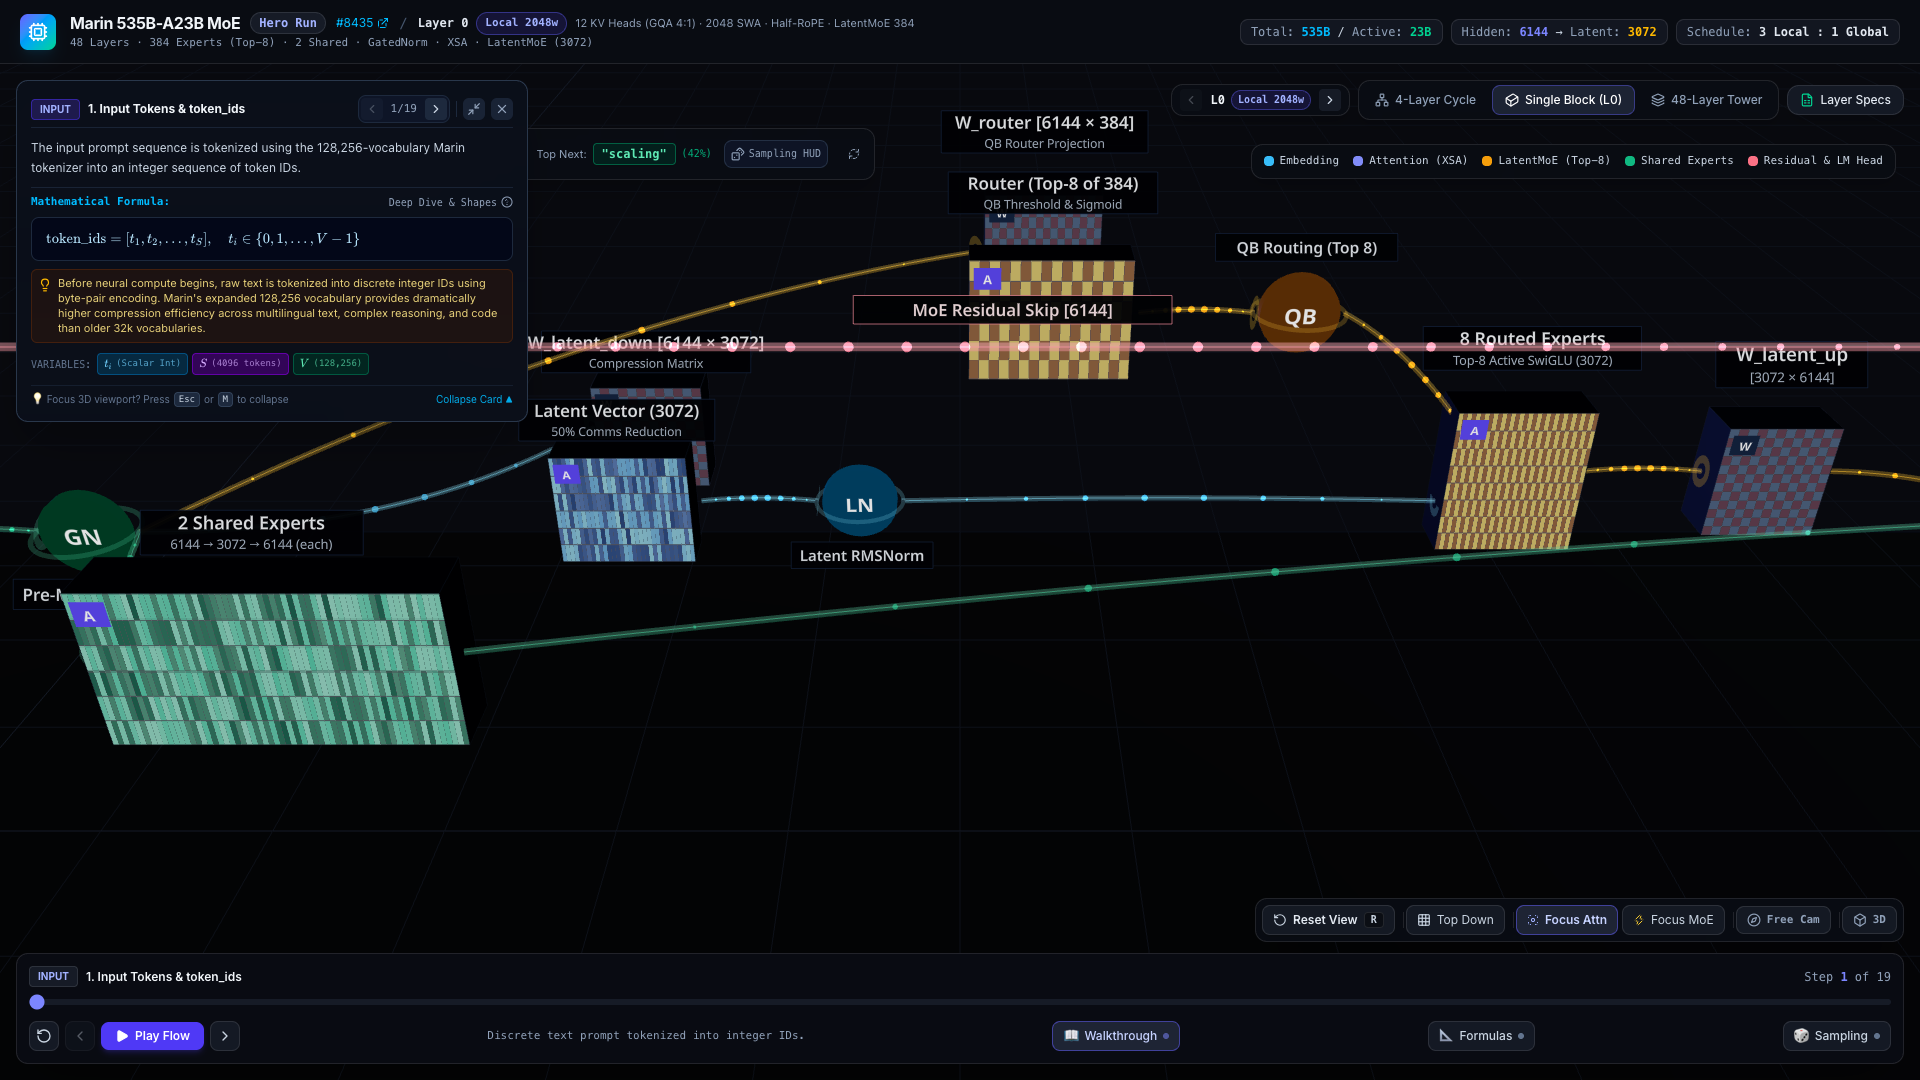
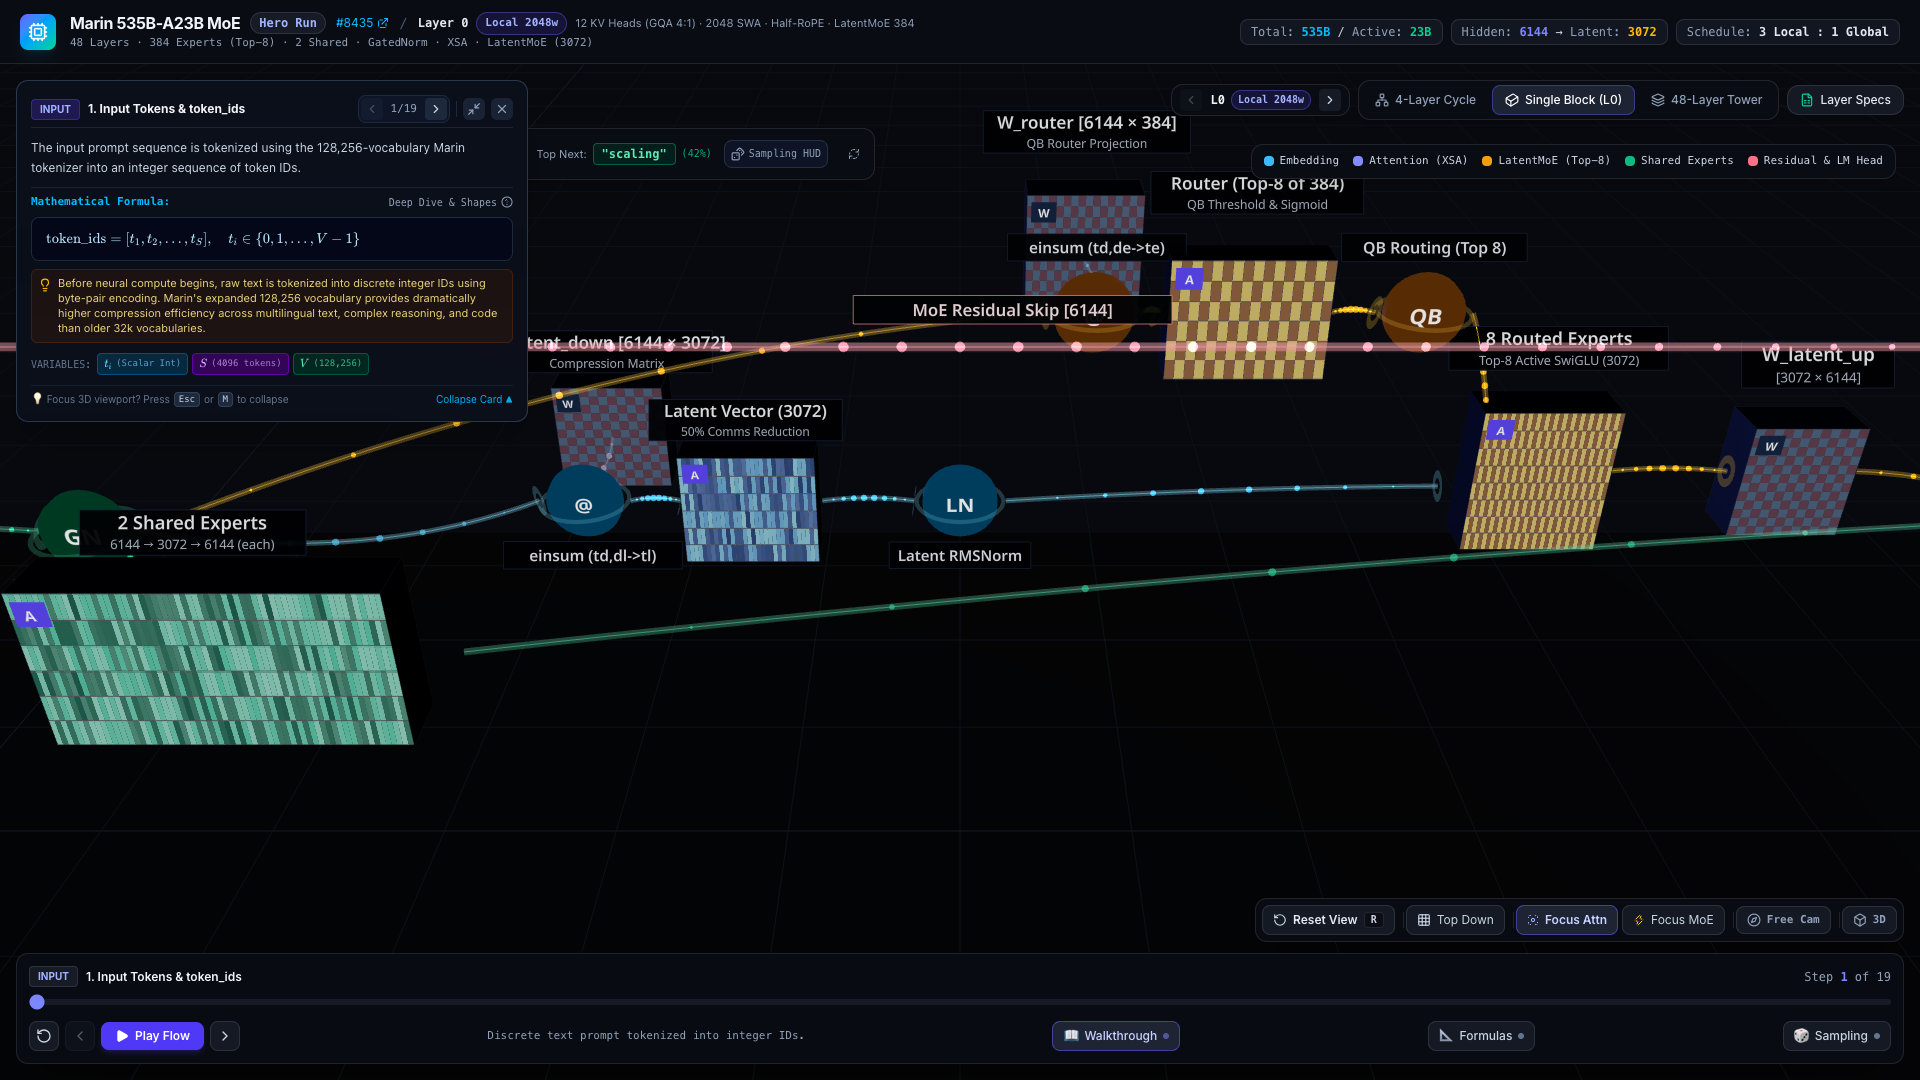
feat: implement Plan A jnp.einsum projection operators for MoE

diff --git a/src/components/ThreeScene/MicroBlockView.tsx b/src/components/ThreeScene/MicroBlockView.tsx
@@ -642,13 +642,13 @@ export const MicroBlockView: React.FC<MicroBlockViewProps> = ({
       />
 
       {/* --- LANE A: ROUTER & SHARED EXPERTS (UPPER LATERAL TIER) --- */}
-      {/* Flow to Router */}
+      {/* Token to op_router_proj */}
       <FlowConnection
         from={[16.55, 2.0, 0]}
-        to={[25.2, 3.4, -4.5]}
+        to={[25.95, 3.4, -2.5]}
         color="#f59e0b"
-        isHighlighted={isFlowActive(isStep('router_qb_selection'), ['op_moe_gn', 'node_w_router'])}
-        label="Router In"
+        isHighlighted={isFlowActive(isStep('router_qb_selection'), ['op_moe_gn', 'op_router_proj'])}
+        label="Token [6144]"
       />
 
       {/* W_router Weight Matrix */}
@@ -656,28 +656,50 @@ export const MicroBlockView: React.FC<MicroBlockViewProps> = ({
         id="node_w_router"
         label="W_router [6144 × 384]"
         subLabel="QB Router Projection"
-        position={[26.0, 3.4, -4.5]}
+        position={[26.5, 3.4, -4.5]}
         size={[1.4, 1.6, 0.6]}
         gridRows={12}
         gridCols={16}
         isWeight={true}
         colorTheme="slate"
-        isHighlighted={isHighlighted('node_w_router') || isHighlighted('node_router')}
+        isHighlighted={isHighlighted('node_w_router') || isHighlighted('op_router_proj')}
         onHover={onHoverItem}
         onClick={onClickItem}
         onHoverCell={onHoverCell}
         labelYOffset={0.15}
       />
 
-      {/* W_router Weight into Router */}
+      {/* W_router -> op_router_proj */}
       <FlowConnection
-        from={[26.0, 3.4, -4.2]}
-        to={[26.0, 3.4, -2.8]}
-        color="#f59e0b"
-        tubeRadius={0.025}
+        from={[26.5, 3.4, -4.2]}
+        to={[26.5, 3.4, -2.9]}
+        color="#64748b"
+        tubeRadius={0.02}
         particleCount={4}
-        label="Projection [384]"
-        isHighlighted={isFlowActive(isStep('router_qb_selection'), ['node_w_router', 'node_router'])}
+        label="W_router"
+        isHighlighted={isFlowActive(isStep('router_qb_selection'), ['node_w_router', 'op_router_proj'])}
+      />
+
+      {/* Router Projection Operator */}
+      <OperatorNode
+        id="op_router_proj"
+        name="einsum (td,de->te)"
+        symbol="@"
+        position={[26.5, 3.4, -2.5]}
+        color="#f59e0b"
+        isHighlighted={isHighlighted('op_router_proj') || isHighlighted('node_w_router')}
+        onHover={onHoverItem}
+        onClick={onClickItem}
+        labelPosition="top"
+      />
+
+      {/* op_router_proj -> node_router */}
+      <FlowConnection
+        from={[27.05, 3.4, -2.5]}
+        to={[27.25, 3.4, -2.5]}
+        color="#f59e0b"
+        isHighlighted={isFlowActive(isStep('router_qb_selection'), ['op_router_proj', 'node_router'])}
+        label="Logits [384]"
       />
 
       {/* Router Logits & QB Selection */}
@@ -685,7 +707,7 @@ export const MicroBlockView: React.FC<MicroBlockViewProps> = ({
         id="node_router"
         label="Router (Top-8 of 384)"
         subLabel="QB Threshold & Sigmoid"
-        position={[26.0, 3.4, -2.5]}
+        position={[28.2, 3.4, -2.5]}
         size={[1.8, 1.4, 0.5]}
         gridRows={activationData.tokens.length}
         gridCols={16}
@@ -697,10 +719,10 @@ export const MicroBlockView: React.FC<MicroBlockViewProps> = ({
         labelYOffset={0.15}
       />
 
-      {/* Router Matrix to QB Operator */}
+      {/* node_router -> op_router_qb */}
       <FlowConnection
-        from={[27.0, 3.4, -2.5]}
-        to={[28.3, 3.4, -2.5]}
+        from={[29.15, 3.4, -2.5]}
+        to={[29.65, 3.4, -2.5]}
         color="#f59e0b"
         isHighlighted={isFlowActive(isStep('router_qb_selection'), ['node_router', 'op_router_qb'])}
       />
@@ -710,7 +732,7 @@ export const MicroBlockView: React.FC<MicroBlockViewProps> = ({
         id="op_router_qb"
         name="QB Routing (Top 8)"
         symbol="QB"
-        position={[28.8, 3.4, -2.5]}
+        position={[30.2, 3.4, -2.5]}
         color="#f59e0b"
         isHighlighted={isHighlighted('op_router_qb')}
         onHover={onHoverItem}
@@ -723,7 +745,7 @@ export const MicroBlockView: React.FC<MicroBlockViewProps> = ({
         id="node_experts_shared"
         label="2 Shared Experts"
         subLabel="6144 → 3072 → 6144 (each)"
-        position={[19.0, 2.2, 2.5]}
+        position={[18.5, 2.2, 2.5]}
         size={[64 * DIM_W, 1.6, 0.6]}
         gridRows={activationData.tokens.length}
         gridCols={64}
@@ -746,13 +768,13 @@ export const MicroBlockView: React.FC<MicroBlockViewProps> = ({
       />
 
       {/* --- LANE B: LATENT COMPRESSION & ROUTED EXPERTS (LOWER LATERAL TIER) --- */}
-      {/* Branch to Latent Down */}
+      {/* Branch to Latent Down (Token -> op_latent_proj) */}
       <FlowConnection
         from={[16.55, 2.0, 0]}
-        to={[20.2, 1.0, -4.5]}
+        to={[19.95, 1.0, -2.5]}
         color="#38bdf8"
-        isHighlighted={isFlowActive(isStep('latent_compression'), ['op_moe_gn', 'node_w_latent_down'])}
-        label="Compress 6144→3072"
+        isHighlighted={isFlowActive(isStep('latent_compression'), ['op_moe_gn', 'op_latent_proj'])}
+        label="Token [6144]"
       />
 
       {/* W_latent_down Weight Matrix */}
@@ -760,28 +782,50 @@ export const MicroBlockView: React.FC<MicroBlockViewProps> = ({
         id="node_w_latent_down"
         label="W_latent_down [6144 × 3072]"
         subLabel="Compression Matrix"
-        position={[21.0, 1.0, -4.5]}
+        position={[20.5, 1.0, -4.5]}
         size={[1.4, 1.4, 0.6]}
         gridRows={12}
         gridCols={12}
         isWeight={true}
         colorTheme="slate"
-        isHighlighted={isHighlighted('node_w_latent_down') || isHighlighted('node_latent_down')}
+        isHighlighted={isHighlighted('node_w_latent_down') || isHighlighted('op_latent_proj')}
         onHover={onHoverItem}
         onClick={onClickItem}
         onHoverCell={onHoverCell}
         labelYOffset={-0.15}
       />
 
-      {/* W_latent_down Weight into Latent Down Matrix */}
+      {/* W_down -> op_latent_proj */}
       <FlowConnection
-        from={[21.0, 1.0, -4.2]}
-        to={[21.0, 1.0, -2.8]}
-        color="#38bdf8"
-        tubeRadius={0.025}
+        from={[20.5, 1.0, -4.2]}
+        to={[20.5, 1.0, -2.9]}
+        color="#64748b"
+        tubeRadius={0.02}
         particleCount={4}
-        label="Latent Proj"
-        isHighlighted={isFlowActive(isStep('latent_compression'), ['node_w_latent_down', 'node_latent_down'])}
+        label="W_down"
+        isHighlighted={isFlowActive(isStep('latent_compression'), ['node_w_latent_down', 'op_latent_proj'])}
+      />
+
+      {/* Latent Projection Operator */}
+      <OperatorNode
+        id="op_latent_proj"
+        name="einsum (td,dl->tl)"
+        symbol="@"
+        position={[20.5, 1.0, -2.5]}
+        color="#38bdf8"
+        isHighlighted={isHighlighted('op_latent_proj') || isHighlighted('node_w_latent_down')}
+        onHover={onHoverItem}
+        onClick={onClickItem}
+        labelPosition="bottom"
+      />
+
+      {/* op_latent_proj -> node_latent_down */}
+      <FlowConnection
+        from={[21.05, 1.0, -2.5]}
+        to={[21.65, 1.0, -2.5]}
+        color="#38bdf8"
+        isHighlighted={isFlowActive(isStep('latent_compression'), ['op_latent_proj', 'node_latent_down'])}
+        label="Latent [3072]"
       />
 
       {/* Compressed Latent Vector */}
@@ -789,7 +833,7 @@ export const MicroBlockView: React.FC<MicroBlockViewProps> = ({
         id="node_latent_down"
         label="Latent Vector (3072)"
         subLabel="50% Comms Reduction"
-        position={[21.0, 1.0, -2.5]}
+        position={[22.5, 1.0, -2.5]}
         size={[32 * DIM_W, 1.4, 0.5]}
         gridRows={activationData.tokens.length}
         gridCols={32}
@@ -804,11 +848,10 @@ export const MicroBlockView: React.FC<MicroBlockViewProps> = ({
 
       {/* Latent Down to Latent RMSNorm */}
       <FlowConnection
-        from={[21.9, 1.0, -2.5]}
-        to={[23.3, 1.0, -2.5]}
+        from={[23.35, 1.0, -2.5]}
+        to={[24.45, 1.0, -2.5]}
         color="#38bdf8"
         isHighlighted={isFlowActive(isStep('latent_compression'), ['node_latent_down', 'op_latent_norm'])}
-        label="RMSNorm"
       />
 
       {/* Latent RMSNorm Node */}
@@ -816,7 +859,7 @@ export const MicroBlockView: React.FC<MicroBlockViewProps> = ({
         id="op_latent_norm"
         name="Latent RMSNorm"
         symbol="LN"
-        position={[23.8, 1.0, -2.5]}
+        position={[25.0, 1.0, -2.5]}
         color="#38bdf8"
         isHighlighted={isHighlighted('op_latent_norm')}
         onHover={onHoverItem}
@@ -826,21 +869,21 @@ export const MicroBlockView: React.FC<MicroBlockViewProps> = ({
 
       {/* QB Router to 8 Routed Experts: Gating dispatch */}
       <FlowConnection
-        from={[29.3, 3.4, -2.5]}
-        to={[31.0, 1.8, -2.5]}
+        from={[30.75, 3.4, -2.5]}
+        to={[31.2, 1.8, -2.5]}
         color="#f59e0b"
-        curveHeight={0.35}
+        curveHeight={0.3}
         isHighlighted={isFlowActive(isStep('router_qb_selection') || isStep('routed_experts_swiglu'), ['op_router_qb', 'node_experts_routed'])}
         label="Top-8 Gating Beam"
       />
 
       {/* Latent RMSNorm into 8 Routed Experts */}
       <FlowConnection
-        from={[24.3, 1.0, -2.5]}
-        to={[30.7, 1.0, -2.5]}
+        from={[25.55, 1.0, -2.5]}
+        to={[30.7, 1.2, -2.5]}
         color="#38bdf8"
         isHighlighted={isFlowActive(isStep('routed_experts_swiglu'), ['op_latent_norm', 'node_experts_routed'])}
-        label="Latent [3072]"
+        label="Normed [3072]"
       />
 
       {/* 8 Routed Half-Width Experts */}
@@ -848,7 +891,7 @@ export const MicroBlockView: React.FC<MicroBlockViewProps> = ({
         id="node_experts_routed"
         label="8 Routed Experts"
         subLabel="Top-8 Active SwiGLU (3072)"
-        position={[31.5, 1.4, -2.5]}
+        position={[31.8, 1.4, -2.5]}
         size={[32 * DIM_W, 1.8, 0.6]}
         gridRows={8}
         gridCols={32}
@@ -860,12 +903,21 @@ export const MicroBlockView: React.FC<MicroBlockViewProps> = ({
         labelYOffset={0.15}
       />
 
+      {/* Routed Experts → W_latent_up (matrix multiply 3072→6144) */}
+      <FlowConnection
+        from={[32.7, 1.4, -2.5]}
+        to={[34.1, 1.4, -2.5]}
+        color="#f59e0b"
+        isHighlighted={isFlowActive(isStep('routed_experts_swiglu') || isStep('moe_aggregation_residual'), ['node_experts_routed', 'node_w_latent_up'])}
+        label="Routed [3072] → W↑"
+      />
+
       {/* W_latent_up Weight Matrix */}
       <TensorMatrix
         id="node_w_latent_up"
         label="W_latent_up"
         subLabel="[3072 × 6144]"
-        position={[34.5, 1.4, -2.5]}
+        position={[34.8, 1.4, -2.5]}
         size={[1.3, 1.4, 0.6]}
         gridRows={12}
         gridCols={12}
@@ -880,22 +932,13 @@ export const MicroBlockView: React.FC<MicroBlockViewProps> = ({
 
       {/* W_latent_up projected output → MoE Merge */}
       <FlowConnection
-        from={[35.2, 1.4, -2.5]}
+        from={[35.5, 1.4, -2.5]}
         to={[37.0, 1.8, 0]}
         color="#f59e0b"
         tubeRadius={0.035}
         particleCount={8}
         isHighlighted={isFlowActive(isStep('moe_aggregation_residual'), ['node_w_latent_up', 'op_moe_add'])}
         label="Up-Projected [6144]"
-      />
-
-      {/* Routed Experts → W_latent_up (matrix multiply 3072→6144) */}
-      <FlowConnection
-        from={[32.4, 1.4, -2.5]}
-        to={[33.8, 1.4, -2.5]}
-        color="#f59e0b"
-        isHighlighted={isFlowActive(isStep('routed_experts_swiglu') || isStep('moe_aggregation_residual'), ['node_experts_routed', 'node_w_latent_up'])}
-        label="Routed [3072] → W↑"
       />
 
       {/* Shared Experts to MoE Add */}

diff --git a/src/data/equationData.ts b/src/data/equationData.ts
@@ -631,6 +631,46 @@ export const EQUATION_DEFINITIONS: Record<string, EnrichedEquationData> = {
     codeSnippet: 'hidden = self.final_gated_norm(self.final_norm(hidden))',
   },
 
+  op_latent_proj: {
+    id: 'op_latent_proj',
+    title: 'Latent Projection Operator',
+    category: 'Operator',
+    formula: '\\text{routed\\_input} = \\text{jnp.einsum}("td,dl\\rightarrow tl", x, W_{\\text{down}})',
+    intuitiveMeaning: 'Projects the 6144-dimensional token down to a 3072-dimensional latent representation to save cross-node bandwidth.',
+    dataflow: {
+      inputShape: '[T, 6144]',
+      operation: 'Einsum Tensor Contraction',
+      weightShape: '[6144, 3072]',
+      outputShape: '[T, 3072]',
+      transformationNote: 'Source Line: 1046',
+      stages: []
+    },
+    variables: [],
+    realShape: '[T, 3072]',
+    visualShape: '[T, 32]',
+    codeSnippet: 'routed_input = jnp.einsum("td,dl->tl", x, W_down)',
+  },
+
+  op_router_proj: {
+    id: 'op_router_proj',
+    title: 'Router Projection Operator',
+    category: 'Operator',
+    formula: '\\text{router\\_logits} = \\text{jnp.einsum}("td,de\\rightarrow te", x, W_{\\text{router}})',
+    intuitiveMeaning: 'Projects the 6144-dimensional token to expert logits for the Query-Based Router.',
+    dataflow: {
+      inputShape: '[T, 6144]',
+      operation: 'Einsum Tensor Contraction',
+      weightShape: '[6144, 384]',
+      outputShape: '[T, 384]',
+      transformationNote: 'Source Line: 977',
+      stages: []
+    },
+    variables: [],
+    realShape: '[T, 384]',
+    visualShape: '[T, 4]',
+    codeSnippet: 'router_logits = jnp.einsum("td,de->te", x, W_router)',
+  },
+
   untied_lm_head: {
     id: 'untied_lm_head',
     title: 'Untied Language Model Head & Softmax',
@@ -685,8 +725,10 @@ export const NODE_EQUATION_MAP: Record<string, string> = {
   op_attn_add: 'attn_proj_residual',
   node_pre_moe_norm: 'pre_moe_gated_norm',
   op_moe_gn: 'pre_moe_gated_norm',
+  op_router_proj: 'op_router_proj',
   node_router: 'router_qb_selection',
   op_router_qb: 'router_qb_selection',
+  op_latent_proj: 'op_latent_proj',
   node_latent_down: 'latent_compression',
   op_latent_norm: 'latent_compression',
   node_experts_routed: 'routed_experts_swiglu',

diff --git a/src/data/stepDefinitions.ts b/src/data/stepDefinitions.ts
@@ -208,7 +208,7 @@ const RAW_FORWARD_STEPS: Omit<ForwardStep, 'formulaData'>[] = [
     hardwareSignificance: 'QB (Quantile Balancing) dynamically balances load across GPU nodes without intrusive auxiliary balance loss penalties.',
     cameraFocus: [27.0, 3.4, -2.5],
     cameraPos: [27.0, 7.0, 5.0],
-    activeNodeIds: ['node_router', 'op_router_qb'],
+    activeNodeIds: ['op_router_proj', 'node_w_router', 'node_router', 'op_router_qb'],
   },
   {
     id: 'latent_compression',
@@ -222,9 +222,9 @@ const RAW_FORWARD_STEPS: Omit<ForwardStep, 'formulaData'>[] = [
     realShape: '[1, 4096, 3072]',
     visualShape: '[1, 6, 32]',
     hardwareSignificance: 'Cuts EP all-to-all cross-node network bandwidth in HALF (150 GB/s -> 75 GB/s), preventing network bottlenecks on 11-rack clusters.',
-    cameraFocus: [22.5, 1.0, -2.5],
-    cameraPos: [22.5, 4.5, 5.0],
-    activeNodeIds: ['node_latent_down', 'op_latent_norm'],
+    cameraFocus: [22.0, 1.0, -2.5],
+    cameraPos: [22.0, 5.0, 4.0],
+    activeNodeIds: ['op_latent_proj', 'node_w_latent_down', 'node_latent_down', 'op_latent_norm'],
   },
   {
     id: 'routed_experts_swiglu',
